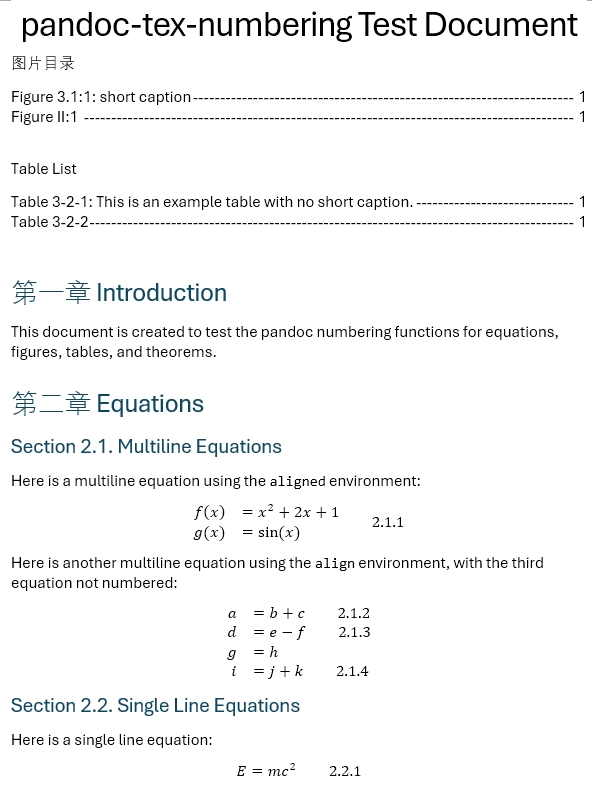
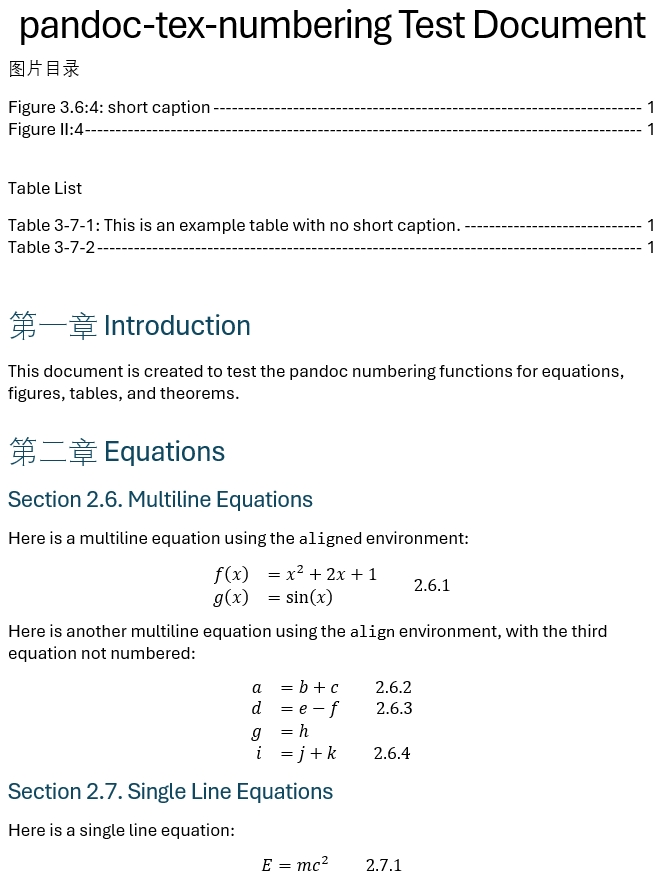
add offset feature, remove lot/lof location search

diff --git a/src/pandoc_tex_numbering/numbering.py b/src/pandoc_tex_numbering/numbering.py
@@ -1,5 +1,6 @@
 from .lang_num import language_functions
 import logging
+from copy import deepcopy
 logger = logging.getLogger('pandoc-tex-numbering')
 
 def header_fields(header_nums):
@@ -148,90 +149,110 @@ class Numbering:
         return f"{self.item_type}: {'.'.join(map(str,self.nums))}"
 
 class NumberingState:
-    def __init__(self,formaters:dict,reset_level=1,max_levels=10):
+    def __init__(self,formaters:dict,reset_level=1,max_levels=10,offsets:dict=None):
+        
         self.reset_level = reset_level
-        self.sec = [0]*max_levels
-        self.apx = [0]*max_levels
-        self.eq = 0
-        self.tab = 0
-        self.fig = 0
-        self.subfig = 0
-        self.thms = {}
+        self.init_nums = {
+            "sec": [0]*max_levels,
+            "apx": [0]*max_levels,
+            "eq": 0,
+            "tab": 0,
+            "fig": 0,
+            "subfig": 0,
+            "thm": {},
+        }
+        for item,value in offsets.items():
+            value = int(value)
+            if item in ["eq","tab","fig","subfig"]:
+                self.init_nums[item] = value
+                continue
+            item,info = item.split("_")
+            if item in ["sec","apx"]:
+                idx = int(info)-1
+                self.init_nums[item][idx] = value
+            elif item == "thm":
+                self.init_nums[item][info] = value
+            else:
+                logger.warning(f"Invalid offset item: {item}, ignored")
+        logger.info(f"Initial numbering: {self.init_nums}")
+        self.nums = deepcopy(self.init_nums)
         self.formaters = formaters
         self.isin_apx = False
 
         # We need to store the current numbering objects for each level since they're frequently accessed in the same level. We cannot create a new object each time considering the RAM usage.
         self.current_sec_objs = [None]*max_levels
         self.current_apx_objs = [None]*max_levels
+    
+    def reset_nums(self,items:list[str]):
+        for item in items:
+            self.nums[item] = deepcopy(self.init_nums[item])
+
 
     def next_sec(self,level):
         if self.isin_apx:
-            self.apx[level-1] += 1
-            self.apx[level:] = [0]*(len(self.apx)-level)
+            self.nums["apx"][level-1] += 1
+            self.nums["apx"][level:] = deepcopy(self.init_nums["apx"][level:])
             self.current_apx_objs[level-1:] = [None]*(len(self.current_apx_objs)-level+1)
         else:
-            self.sec[level-1] += 1
-            self.sec[level:] = [0]*(len(self.sec)-level)
+            self.nums["sec"][level-1] += 1
+            self.nums["sec"][level:] = deepcopy(self.init_nums["sec"][level:])
             self.current_sec_objs[level-1:] = [None]*(len(self.current_sec_objs)-level+1)
         if level <= self.reset_level:
-            self.eq = 0
-            self.tab = 0
-            self.fig = 0
-            self.subfig = 0
+            self.reset_nums(["eq","tab","fig","subfig"])
     
     def next_eq(self):
-        self.eq += 1
+        self.nums["eq"] += 1
     
     def next_tab(self):
-        self.tab += 1
+        self.nums["tab"] += 1
     
     def next_fig(self):
-        self.fig += 1
-        self.subfig = 0
+        self.nums["fig"] += 1
+        self.reset_nums(["subfig"])
     
     def next_subfig(self):
-        self.subfig += 1
+        self.nums["subfig"] += 1
     
     def next_thm(self,thm_type):
-        if not thm_type in self.thms:
-            self.thms[thm_type] = 1
+        if not thm_type in self.nums["thm"]:
+            self.nums["thm"][thm_type] = 1
         else:
-            self.thms[thm_type] += 1
+            self.nums["thm"][thm_type] += 1
     
     @property
     def current_sec_nums(self):
-        return self.apx[:self.reset_level] if self.isin_apx else self.sec[:self.reset_level]
+        return deepcopy(self.nums["apx"][:self.reset_level]) if self.isin_apx else deepcopy(self.nums["sec"][:self.reset_level])
     
     def current_sec(self,level):
         if level <=0: return None
         if self.isin_apx:
             item_type = "apx"
             obj_list = self.current_apx_objs
-            num_list = self.apx
+            num_list = self.nums["apx"]
         else:
             item_type = "sec"
             obj_list = self.current_sec_objs
-            num_list = self.sec
+            num_list = self.nums["sec"]
         if obj_list[level-1] is None:
             obj_list[level-1] = Numbering(item_type,num_list[:level],self.formaters[item_type][level-1],parent=self.current_sec(level-1))
         return obj_list[level-1]
     
     def current_eq(self):
-        return Numbering("eq",self.current_sec_nums+[self.eq],self.formaters["eq"],parent=self.current_sec(self.reset_level))
+        return Numbering("eq",self.current_sec_nums+[self.nums["eq"]],self.formaters["eq"],parent=self.current_sec(self.reset_level))
     
     def current_tab(self):
-        return Numbering("tab",self.current_sec_nums+[self.tab],self.formaters["tab"],parent=self.current_sec(self.reset_level))
+        return Numbering("tab",self.current_sec_nums+[self.nums["tab"]],self.formaters["tab"],parent=self.current_sec(self.reset_level))
     
     def current_fig(self,subfig=False):
         if subfig:
-            return Numbering("subfig",self.current_sec_nums+[self.fig,self.subfig],self.formaters["subfig"],parent=self.current_fig(False))
+            return Numbering("subfig",self.current_sec_nums+[self.nums["fig"],self.nums["subfig"]],self.formaters["subfig"],parent=self.current_fig(False))
         else:
-            return Numbering("fig",self.current_sec_nums+[self.fig],self.formaters["fig"],parent=self.current_sec(self.reset_level))
+            return Numbering("fig",self.current_sec_nums+[self.nums["fig"]],self.formaters["fig"],parent=self.current_sec(self.reset_level))
     
     def current_thm(self,thm_type):
-        if not thm_type in self.thms:
-            self.thms[thm_type] = 0
-        return Numbering(f"thm-{thm_type}",self.current_sec_nums+[self.thms[thm_type]],self.formaters["thm"][thm_type],parent=self.current_sec(self.reset_level))
+        if not thm_type in self.nums["thm"]:
+            self.nums["thm"][thm_type] = 0
+        return Numbering(f"thm-{thm_type}",self.current_sec_nums+[self.nums["thm"][thm_type]],self.formaters["thm"][thm_type],parent=self.current_sec(self.reset_level))
 
 def numberings2chunks(numberings,split_continous=True):
     numberings = sorted(numberings)

diff --git a/src/pandoc_tex_numbering/pandoc_tex_numbering.py b/src/pandoc_tex_numbering/pandoc_tex_numbering.py
@@ -90,7 +90,6 @@ def prepare(doc):
         # We save the links to replace here to avoid searching them in the finalize function
         "links2replace": [],
 
-        # We save locations of the custom list blocks (if any) here to avoid searching them in the finalize function
         "lof_block": None,
         "lot_block": None
     }
@@ -198,11 +197,28 @@ def prepare(doc):
             )
             formaters[item].append(i_th_formater)
     
+    # Offsets
+    offsets = {}
+    for item in ["fig","tab","eq","subfig"]:
+        offset = doc.get_metadata(f"{aka[item]}-offset", 0)
+        if offset != 0:
+            offsets[item] = offset
+    for item in ["sec","apx"]:
+        for i in range(1,max_levels+1):
+            offset = doc.get_metadata(f"{aka[item]}-offset-{i}", 0)
+            if offset != 0:
+                offsets[f"{item}_{i}"] = offset
+    for thm_type in doc.settings["theorem_names"]:
+        offset = doc.get_metadata(f"theorem-{thm_type}-offset", 0)
+        if offset != 0:
+            offsets[f"thm-{thm_type}"] = offset
+            
     # Initialize a numbering state object
     doc.num_state = NumberingState(
         reset_level=int(doc.get_metadata("number-reset-level", 1)),
         max_levels=max_levels,
-        formaters=formaters
+        formaters=formaters,
+        offsets=offsets
     )
 
     doc.ref_dict = {}
@@ -242,16 +258,14 @@ def finalize(doc):
             parent.content.insert(idx,item)
 
     if doc.settings["custom_lot"]:
-        if not doc.global_vars["lot_block"]:
-            doc.content.insert(0,RawBlock("\\listoftables",format="latex"))
-            doc.global_vars["lot_block"] = doc.content[0]
+        doc.content.insert(0,RawBlock("\\listoftables",format="latex"))
+        doc.global_vars["lot_block"] = doc.content[0]
         table_items = extract_captions_from_refdict(doc.ref_dict,"tab",doc)
         add_docx_list(doc.global_vars["lot_block"],table_items,doc.settings["lot_title"],leader_type=doc.settings["list_leader_type"])
 
     if doc.settings["custom_lof"]:
-        if not doc.global_vars["lof_block"]:
-            doc.content.insert(0,RawBlock("\\listoffigures",format="latex"))
-            doc.global_vars["lof_block"] = doc.content[0]
+        doc.content.insert(0,RawBlock("\\listoffigures",format="latex"))
+        doc.global_vars["lof_block"] = doc.content[0]
         figure_items = extract_captions_from_refdict(doc.ref_dict,"fig",doc)
         add_docx_list(doc.global_vars["lof_block"],figure_items,doc.settings["lof_title"],leader_type=doc.settings["list_leader_type"])
     
@@ -464,14 +478,15 @@ def action_find_labels(elem, doc):
         find_labels_figure(elem,doc)
     if isinstance(elem,Table) and doc.settings["num_tab"]:
         find_labels_table(elem,doc)
-    if isinstance(elem,RawBlock) and (doc.settings["custom_lof"] or doc.settings["custom_lot"]) and elem.format == "latex":
-        if "listoffigures" in elem.text:
-            doc.global_vars["lof_block"] = elem
-        if "listoftables" in elem.text:
-            doc.global_vars["lot_block"] = elem
+    # if isinstance(elem,RawBlock) and (doc.settings["custom_lof"] or doc.settings["custom_lot"]) and elem.format == "latex":
+    #     if "listoffigures" in elem.text:
+    #         doc.global_vars["lof_block"] = elem
+    #     if "listoftables" in elem.text:
+    #         doc.global_vars["lot_block"] = elem
     if isinstance(elem,Div):
         if any([cls in doc.settings["theorem_names"] for cls in elem.classes]) and doc.settings["num_theorem"]:
             find_labels_theorem(elem,doc)
+    
 
 def _num2link(num_obj,fmt_preset):
     return Link(Str(num_obj.format(fmt_preset=fmt_preset)),url=f"#{num_obj.label}")

diff --git a/README.md b/README.md
@@ -253,7 +253,7 @@ If you set the metadata `custom-lof` and `custom-lot` to `true`, the filter will
 
 The captions used in the list of figures and tables are the short captions if they are defined in the LaTeX source code. If not, the full captions are used. The short captions are defined in the LaTeX source code as `\caption[short caption]{full caption}`.
 
-The list of figures and tables will be put at the beginning of the document by default. If you want to put the lists at posistions where the `\listoffigures` and `\listoftables` commands are found in the LaTeX source code, you should pass `-f latex+raw_tex` to the pandoc command. However, currently, **`-f latex+raw_tex` does NOT work if you're using `subfiles` package.**.
+The list of figures and tables will be put at the beginning of the document, since we cannot access the locations of the LaTeX command `\listoffigures` and `\listoftables` in the pandoc filters.
 
 ## Data Export
 
@@ -331,7 +331,7 @@ In the following example, we custom the following **silly** items *only for the 
 Run the following command with corresponding metadata in a `metadata.yaml` file (**recommended**):
 
 ```bash
-pandoc -o output.docx -F pandoc-tex-numbering --metadata-file test.yaml -f latex+raw_tex test.tex
+pandoc -o output.docx -F pandoc-tex-numbering --metadata-file test.yaml test.tex
 ```
 
 ```yaml
@@ -382,6 +382,7 @@ multiple-ref-to: "\\ to\\ "
 ```
 
 The results are shown as follows:
+
 ![alt text](https://github.com/fncokg/pandoc-tex-numbering/blob/main/images/custom-page1.jpg?raw=true)
 ![alt text](https://github.com/fncokg/pandoc-tex-numbering/blob/main/images/custom-page2.jpg?raw=true)
 ![alt text](https://github.com/fncokg/pandoc-tex-numbering/blob/main/images/custom-page3.jpg?raw=true)
